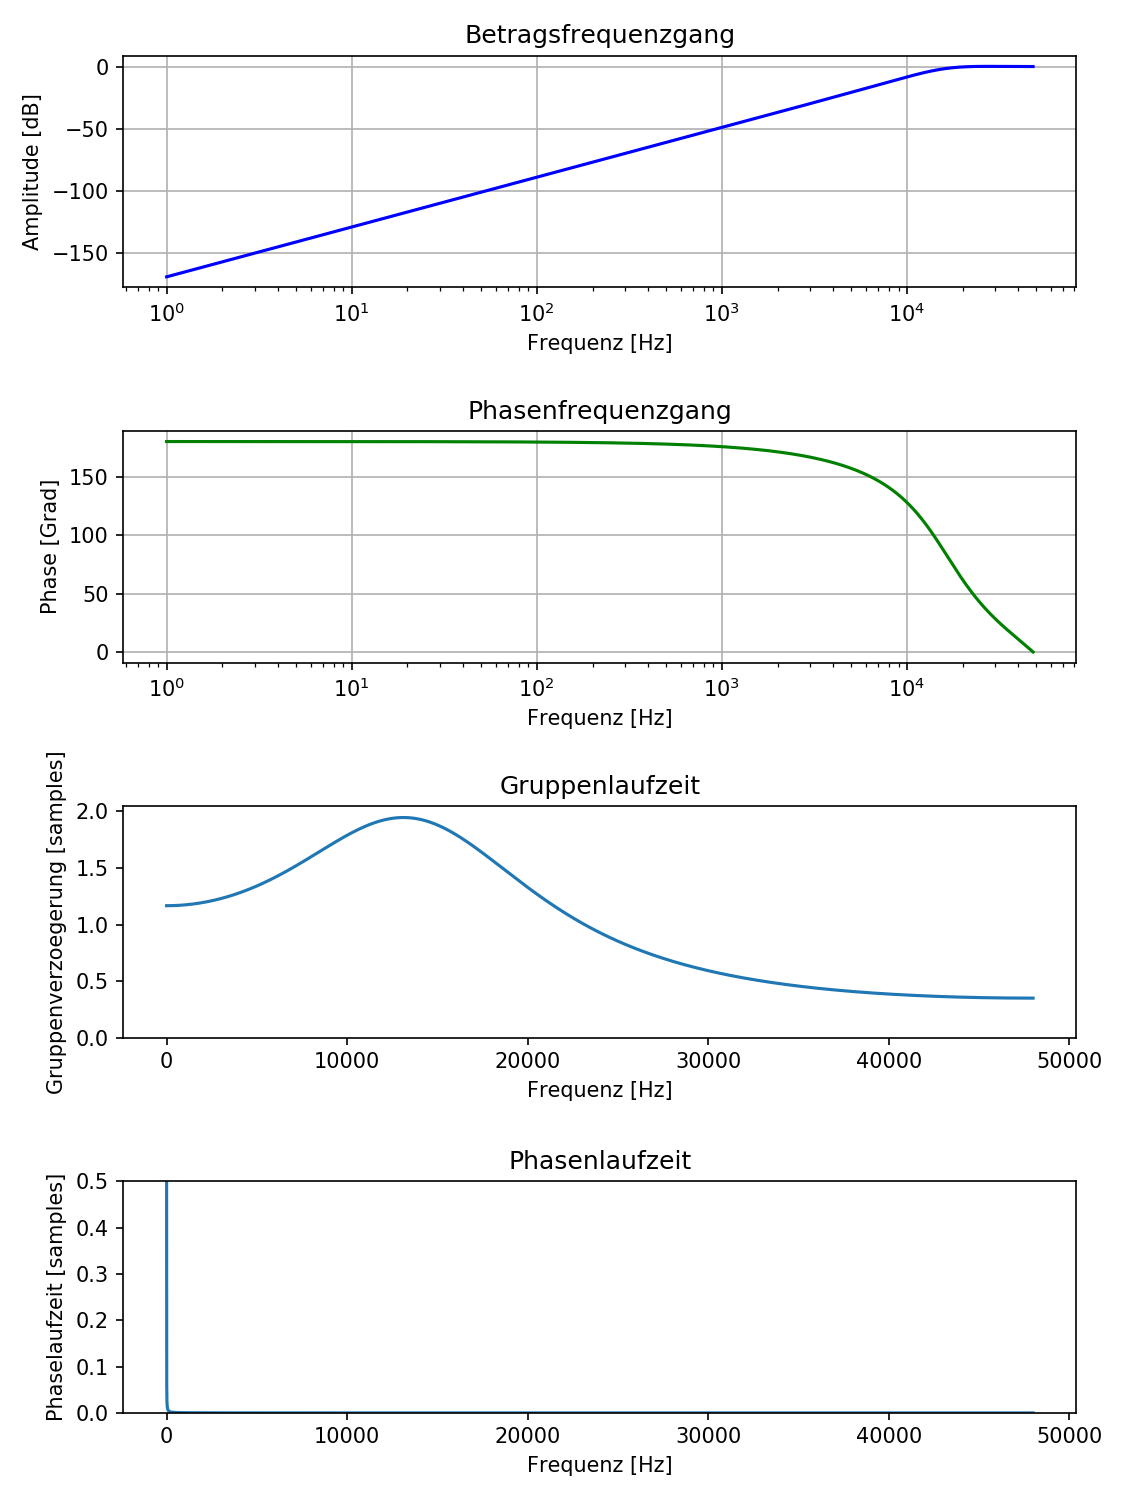
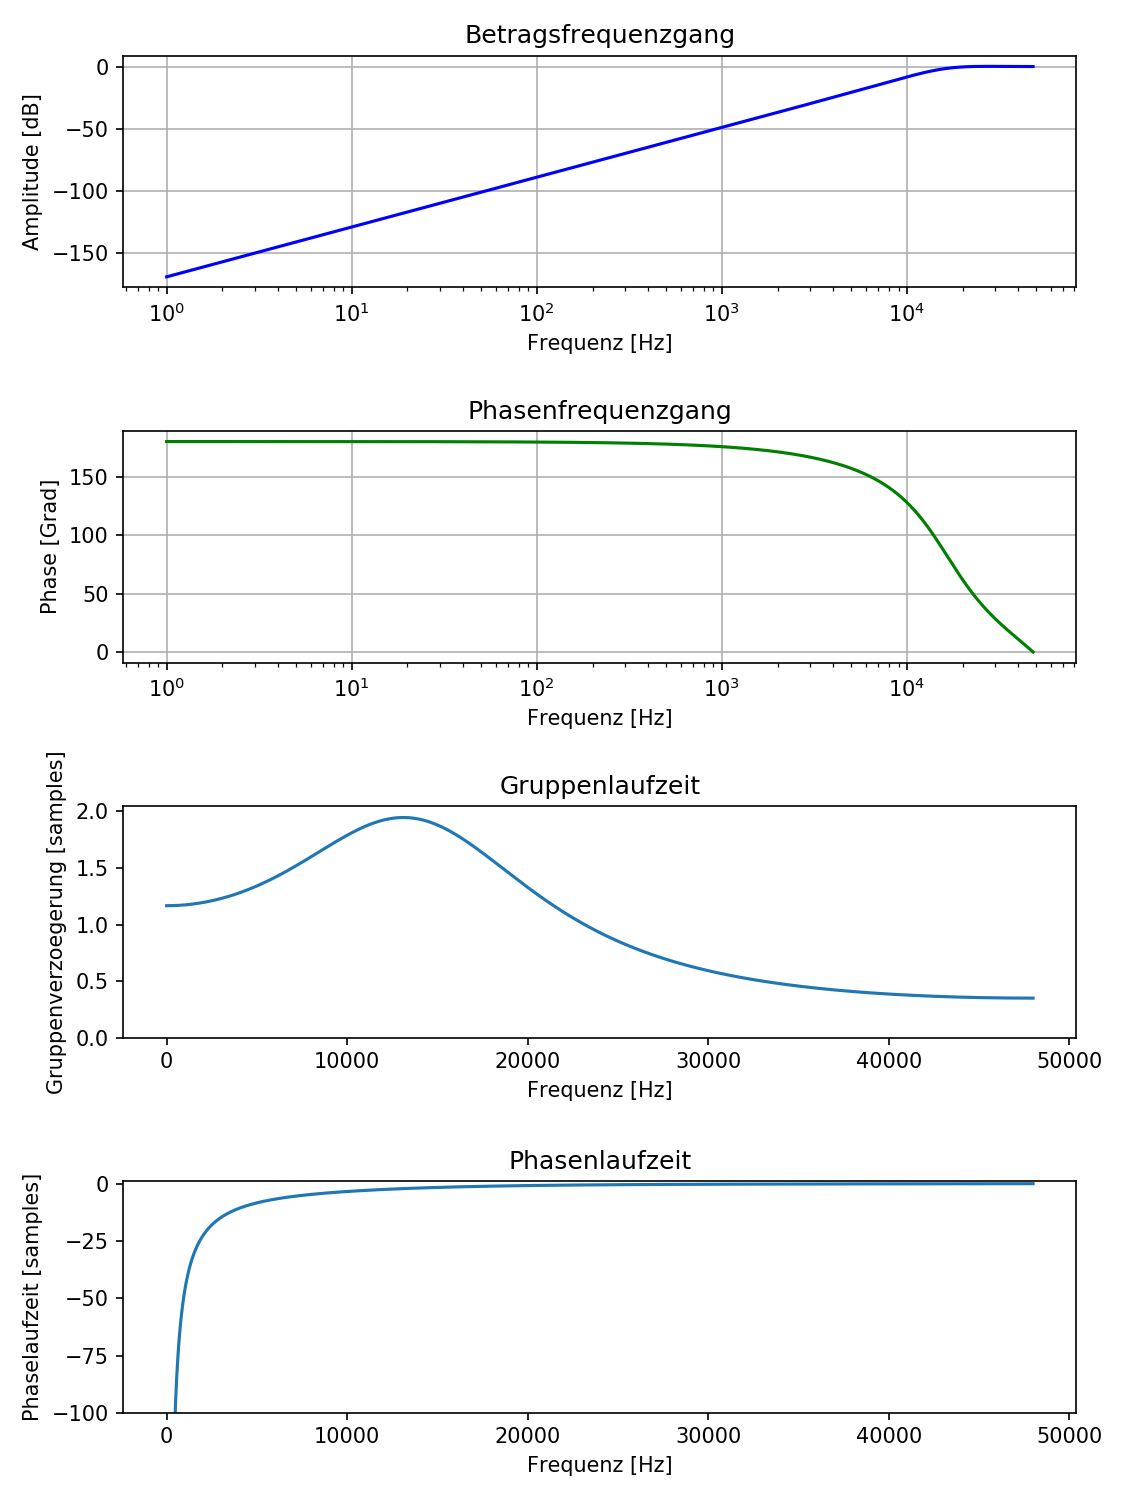
fixes

Changed region(s): [[0.0, 0.7667, 0.0933, 0.9507], [0.1244, 0.7973, 0.1867, 0.9507]]

diff --git a/aufgabe_2_freq_response.py b/aufgabe_2_freq_response.py
@@ -41,7 +41,7 @@ wGd, gd = signal.group_delay((b1, a1), Fs)
 gd = gd[1:]
 
 #phase delay
-pd = np.angle(h)/(2*np.pi*f)
+pd = -np.angle(h)/(wGd[1:])
 
 # Plotten
 fig = plt.figure(figsize=(7.5,10))
@@ -70,7 +70,7 @@ plt.xlabel('Frequenz [Hz]')
 plt.subplot(4,1,4)
 plt.title('Phasenlaufzeit')
 plt.plot(f, pd)
-plt.ylim([0, pd.max()])
+plt.ylim([-100, 1])
 plt.ylabel('Phaselaufzeit [samples]')
 plt.xlabel('Frequenz [Hz]')
 
@@ -90,7 +90,7 @@ wGd, gd = signal.group_delay((b2, a2), Fs)
 gd = gd[1:]
 
 #phase delay
-pd = np.angle(h)/(2*np.pi*f)
+pd = -np.angle(h)/(wGd[1:])
 
 # Plotten
 fig = plt.figure(figsize=(7.5,10))
@@ -119,7 +119,7 @@ plt.xlabel('Frequenz [Hz]')
 plt.subplot(4,1,4)
 plt.title('Phasenlaufzeit')
 plt.plot(f, pd)
-plt.ylim([0, pd.max()])
+plt.ylim([-100, 1])
 plt.ylabel('Phaselaufzeit [samples]')
 plt.xlabel('Frequenz [Hz]')
 

diff --git a/aufgabe_4.py b/aufgabe_4.py
@@ -46,7 +46,7 @@ def plotAll(b,a, Fs, title) :
     gd = gd[1:]
     
     #phase delay
-    pd = np.angle(h)/(2*np.pi*f)
+    pd = -np.angle(h)/(wGd[1:])
     
     # Plotten
     plt.figure(figsize=(7.5,10))
@@ -69,7 +69,7 @@ def plotAll(b,a, Fs, title) :
     plt.title('Gruppenlaufzeit und Phasenlaufzeit')
     plt.plot(f, gd)
     plt.plot(f, pd)
-    plt.ylim([0,np.array([pd.max(),gd.max()]).max()])
+    plt.ylim([-1,1])
     plt.ylabel('Verzoegerung [samples]')
     plt.xlabel('Frequenz [Hz]')
     plt.legend(['Gruppenlaufzeit','Phasenlaufzeit'])
